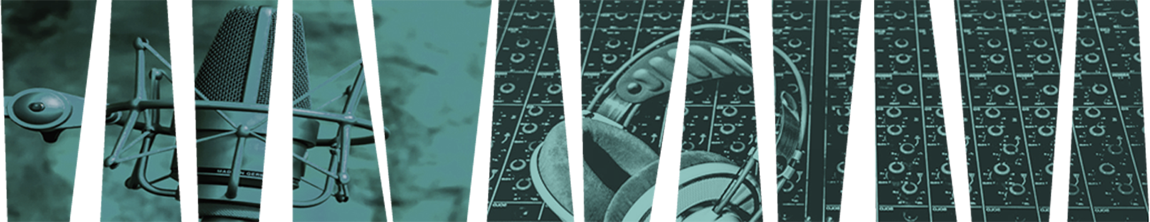
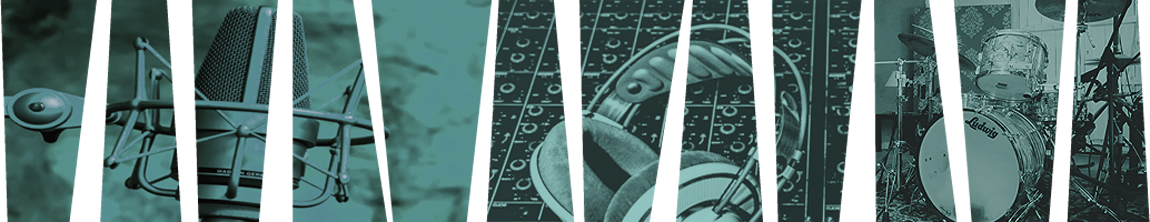
musica ok23

Changed region(s): [[0.7609, 0.0, 1.0, 1.0]]

diff --git a/equipament.html b/equipament.html
@@ -21,21 +21,21 @@
  
             </div>
             
-            <div class="row mb-5">
+            <div class="row">
                 <div class="col-12 ">
                     <img class="img-fluid" src="img/eq_banner.png" alt="Equipamiento">
                 </div>
             </div>
             <section class="ml-1" id="contenido">
                 <div class="row">
-                    <div class="col-sm-12 col-md-6 order-1 order-md-0 mb-4">
+                    <div class="col-sm-12 col-md-8 col-lg-4 mt-5">
 
                     <h5 class="naranja">GRAVACIÓ - MONITORATGE:</h5>
                     <ul >
                         <li>24 canals d'entrada</li>
                         <li>Pro Tools 11</li>
                         <li>Mac i7 4 ghz 32 gb ram</li>
-                        <li>Previs: Neve 1073 x 2 (Tejuca Audiopro)</li>
+                        <li>Neve 1073 x 2 (Tejuca Audiopro)</li>
                         <li>Warm Audio Wa12</li>
                         <li>Golden Age Project Pre73 DLX</li>
                         <li>ART Pro MPA II</li>
@@ -57,17 +57,7 @@
                     </ul>
 
                     </div>
-                    <div class="col-sm-12 col-md-6 order-0 order-md-1 mb-4 ">
-                        <img class="img-fluid" src="img/eq_outboard.png" alt="Equipamiento">
-                    </div>
-
-                </div>
-
-                <div class="row">
-                    <div class="col-sm-12 col-md-6  mb-4">
-                        <img class="img-fluid" src="img/eq_micros.png" alt="Equipamiento">
-                    </div>
-                    <div class="col-sm-12 col-md-6  mb-4">
+                    <div class="col-sm-12 col-md-4 col-lg-4 mt-5">
                         <h5 class="naranja">MICROFONÍA: </h5>
                         <ul>
                             <li>Neumann tlm103</li>
@@ -94,43 +84,55 @@
                             <li>2 x subkicks DIY 6" y 8"</li>
                         </ul>
                     </div>
-                    <div class="row">
-                    <div class="col-sm-12 col-md-6 order-0 order-md-1 mb-4 ">
-                        <img class="img-fluid" src="img/eq_backline.png" alt="Equipamiento">
-                    </div>
-                    <div class="col-sm-12 col-md-6 order-1 order-md-0 mb-4">
+                    <div class="col-sm-12 col-md-6 col-lg-4 mt-5">
 
-                    <h5 class="naranja">BACKLINE:</h5>
-                    <ul >
-                        <li>Batería Ludwig Super Classic (Chicago 1964)</li>
-                        <li>Bombo 22”, tom 13”, Goliat 16”, caixa Ludwig Supraphonic 1964 </li>
-                        <li>Plats Zildjian Zht: Hi-Hat 14”, Fast Crash 17”, China 16”, Medium Ride 20”</li>
-                        <li>Amplificadors de guitarra Fender Hot Rod Deluxe i Vox AC10C1</li>
-                        <li>Amplificador de baix Ampeg BA-210 V2</li>
-                        <li>Pantalla CMB (2 x 15", 100 w, 32 ohms)</li>
-                        <li>Amplificador de teclat Hartke km200</li>
-                    </ul>  
-                    <h5 class="naranja">Sintetitzadors:</h5>
-                    <ul >
-                        <li>Arturia Matrixbrute</li>
-                        <li>MFB Dominion X</li>
-                        <li>Yamaha DX7s</li>
-                        <li>Casio CZ101 </li>
-                        <li>Moog Theremini</li>
-                        <li>Moog Theremin Etherwave</li>
-                     </ul >   
-                     <h5 class="naranja">Pedals:</h5>
-                     <ul >
-                        <li>EHX Epitome</li>
-                        <li>EHX Stereo Memory Man</li>
-                        <li>EHX Talking Machine</li>
-                        <li>EHX Analogizer </li>
-                        <li>Effectivy Wonder Juno Chorus</li>
-                        <li>Boss TU-3</li>
-                        <li>Behringer Chorus Space-c</li>
-                        <li>Mooer The Juicer</li>
-                    </ul>
+                        <h5 class="naranja">BACKLINE:</h5>
+                        <ul >
+                            <li>Batería Ludwig Super Classic (Chicago 1964)</li>
+                            <li>Bombo 22”, tom 13”, Goliat 16”, caixa Ludwig Supraphonic 1964 </li>
+                            <li>Plats Zildjian Zht: Hi-Hat 14”, Fast Crash 17”, China 16”, Medium Ride 20”</li>
+                            <li>Amplificadors de guitarra Fender Hot Rod Deluxe i Vox AC10C1</li>
+                            <li>Amplificador de baix Ampeg BA-210 V2</li>
+                            <li>Pantalla CMB (2 x 15", 100 w, 32 ohms)</li>
+                            <li>Amplificador de teclat Hartke km200</li>
+                        </ul>  
+                        <h5 class="naranja">Sintetitzadors:</h5>
+                        <ul >
+                            <li>Arturia Matrixbrute</li>
+                            <li>MFB Dominion X</li>
+                            <li>Yamaha DX7s</li>
+                            <li>Casio CZ101 </li>
+                            <li>Moog Theremini</li>
+                            <li>Moog Theremin Etherwave</li>
+                         </ul >   
+                         <h5 class="naranja">Pedals:</h5>
+                         <ul >
+                            <li>EHX Epitome</li>
+                            <li>EHX Stereo Memory Man</li>
+                            <li>EHX Talking Machine</li>
+                            <li>EHX Analogizer </li>
+                            <li>Effectivy Wonder Juno Chorus</li>
+                            <li>Boss TU-3</li>
+                            <li>Behringer Chorus Space-c</li>
+                            <li>Mooer The Juicer</li>
+                        </ul>
                     </div>
+<!--                    <div class="col-sm-12 col-md-6 order-0 order-md-1 mb-4 ">
+                        <img class="img-fluid" src="img/eq_outboard.png" alt="Equipamiento">
+                    </div>-->
+
+                </div>
+
+                <div class="row">
+<!--                    <div class="col-sm-12 col-md-6  mb-4">
+                        <img class="img-fluid" src="img/eq_micros.png" alt="Equipamiento">
+                    </div>-->
+                    
+                    <div class="row">
+<!--                    <div class="col-sm-12 col-md-6 order-0 order-md-1 mb-4 ">
+                        <img class="img-fluid" src="img/eq_backline.png" alt="Equipamiento">
+                    </div>-->
+                    
                
        
        

diff --git a/imatges.html b/imatges.html
@@ -27,7 +27,10 @@
             
             <div class="row ">
                 <div class="col-12 " id="slider"></div>
-                 
+            </div>
+            
+            <div class="row ">
+                <div class="col " ><button class="js-modal-btn" data-video-id="7TUOI23spt0">Open Video</button></div>
             </div>
         </div>
         
